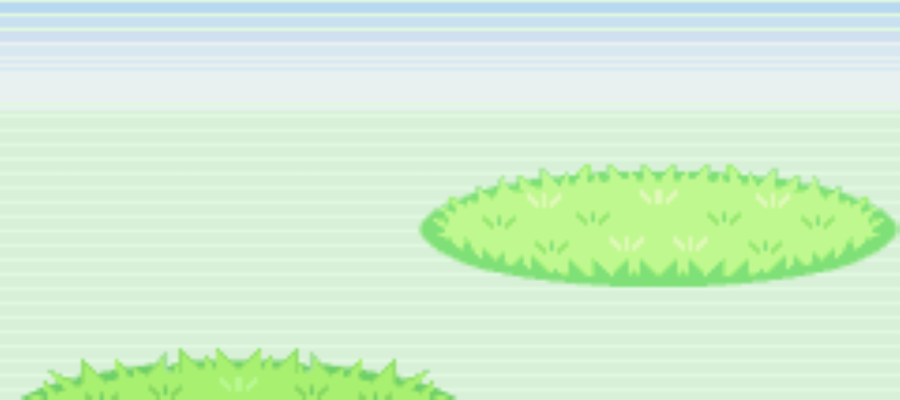
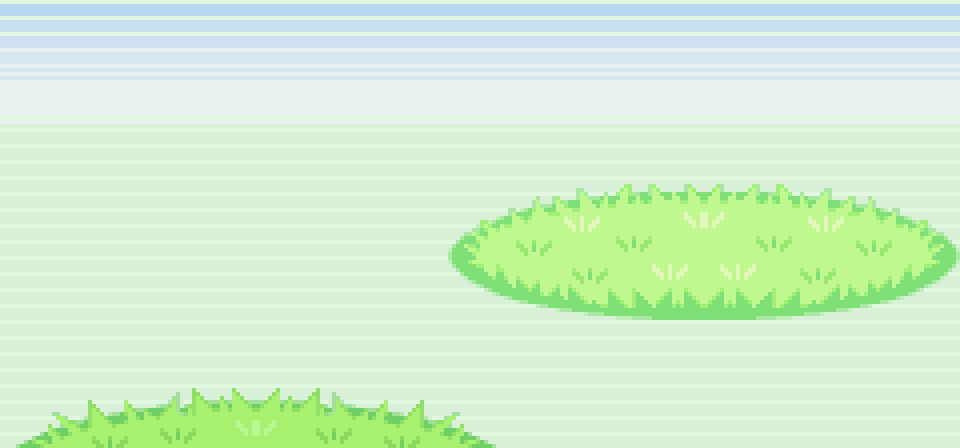
Atualizar classes Battle, Enemy, Player e PokemonsBatle

diff --git a/PokemonsBatle.java b/PokemonsBatle.java
@@ -23,8 +23,8 @@ public class PokemonsBatle extends JPanel{
 
         interface1 = new InterfaceCaixa(frame);
 
-        Enemy.inimigoAtual.imagemLabel.setBounds(550, 20, 240, 240);
-        Player.pokemonSelecionado.imagemLabel.setBounds(120, 180, 240, 240);
+        Enemy.inimigoAtual.imagemLabel.setBounds(580, 40, 256, 256);
+        Player.pokemonSelecionado.imagemLabel.setBounds(120, 208, 256, 256);
         
         // aliado = new JLabel();
         // aliado.setIcon(new ImageIcon("images/charizard costas.png"));
@@ -46,8 +46,8 @@ public class PokemonsBatle extends JPanel{
 
     public void atualizarInimigo() {
         label.removeAll();
-        Enemy.inimigoAtual.imagemLabel.setBounds(550, 20, 240, 240);
-        Player.pokemonSelecionado.imagemLabel.setBounds(120, 180, 240, 240);
+        Enemy.inimigoAtual.imagemLabel.setBounds(580, 40, 256, 256);
+        Player.pokemonSelecionado.imagemLabel.setBounds(120, 208, 256, 256);
         label.add(Enemy.inimigoAtual.imagemLabel);
         label.add(Player.pokemonSelecionado.imagemLabel);
         revalidate();

diff --git a/Battle.java b/Battle.java
@@ -7,8 +7,8 @@ import java.awt.*;
 public class Battle extends JPanel {
     private JPanel cardPanel;
     private CardLayout cardLayout;
-    private Player player; 
-    private Enemy enemy; 
+    // private Player player; 
+    // private Enemy enemy; 
     
 
     public Battle() {
@@ -17,9 +17,9 @@ public class Battle extends JPanel {
         cardLayout = new CardLayout();
         cardPanel = new JPanel(cardLayout);
 
-        // Instanciando Player e Enemy
-        player = new Player();
-        enemy = new Enemy();
+        // // Instanciando Player e Enemy
+        // player = new Player();
+        // enemy = new Enemy();
 
         // Criando e adicionando os "cartões"
         JPanel pokemonsSelectionPanel = new JPanel();

diff --git a/Pokemon.java b/Pokemon.java
@@ -1,5 +1,3 @@
-import java.awt.Color;
-
 import javax.swing.ImageIcon;
 import javax.swing.JLabel;
 
@@ -13,11 +11,5 @@ public class Pokemon {
         this.nome = nome;
         this.vida = vida;
         imagemLabel.setIcon(new ImageIcon(imgName));
-    }
-
-    public Pokemon(String nome, int vida) {
-        // cria uma area preta que é o espaço que o pokemon vai ocupar, futuramente substituir por uma imagem
-        imagemLabel.setSize(240, 240);
-        imagemLabel.setBackground(Color.BLACK);
     }
 }

diff --git a/Enemy.java b/Enemy.java
@@ -16,7 +16,7 @@ public class Enemy {
     }
 
     public void geraInimigos() {
-        String[] imagensPokemons = {"images/mewtwo frente.png", "images/charizard frente.png", "images/gyarados frente.png"};
+        String[] imagensPokemons = {"images/mewtwo inimigo.png", "images/snorlax inimigo.png", "images/gyarados inimigo.png"};
 
         for (int i = 0; i < NUM_INIMIGOS; i++) {
             Pokemon pokemon = new Pokemon("Pokemon " + (i + 1), 10, imagensPokemons[i]);

diff --git a/GameBag.java b/GameBag.java
@@ -10,7 +10,7 @@ public class GameBag extends JFrame implements Runnable {
         setSize(976, 684);
         setResizable(false);
         setLocationRelativeTo(null);
-        // add(new Intro());
+        // add(new PokemonsBatle());
 
         setVisible(true);
     }
